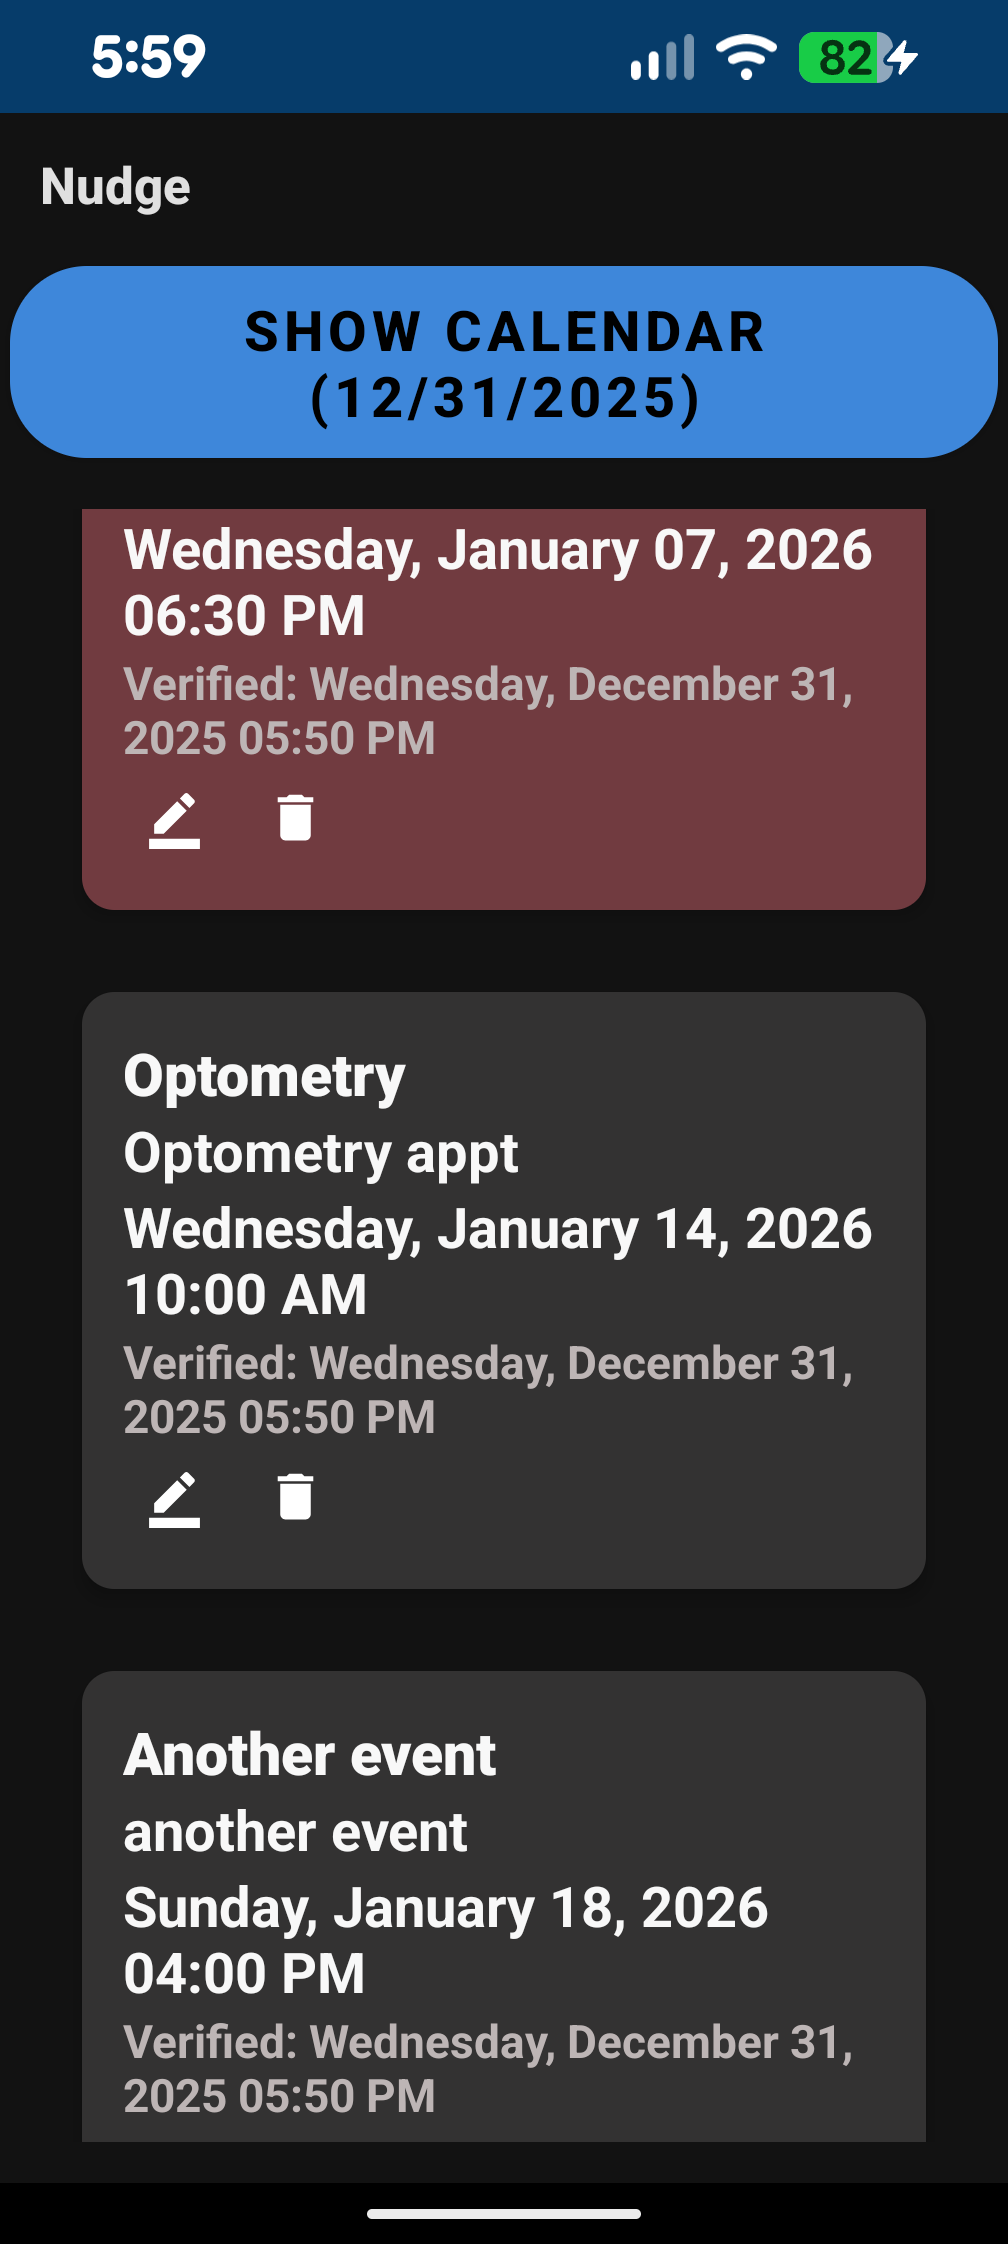
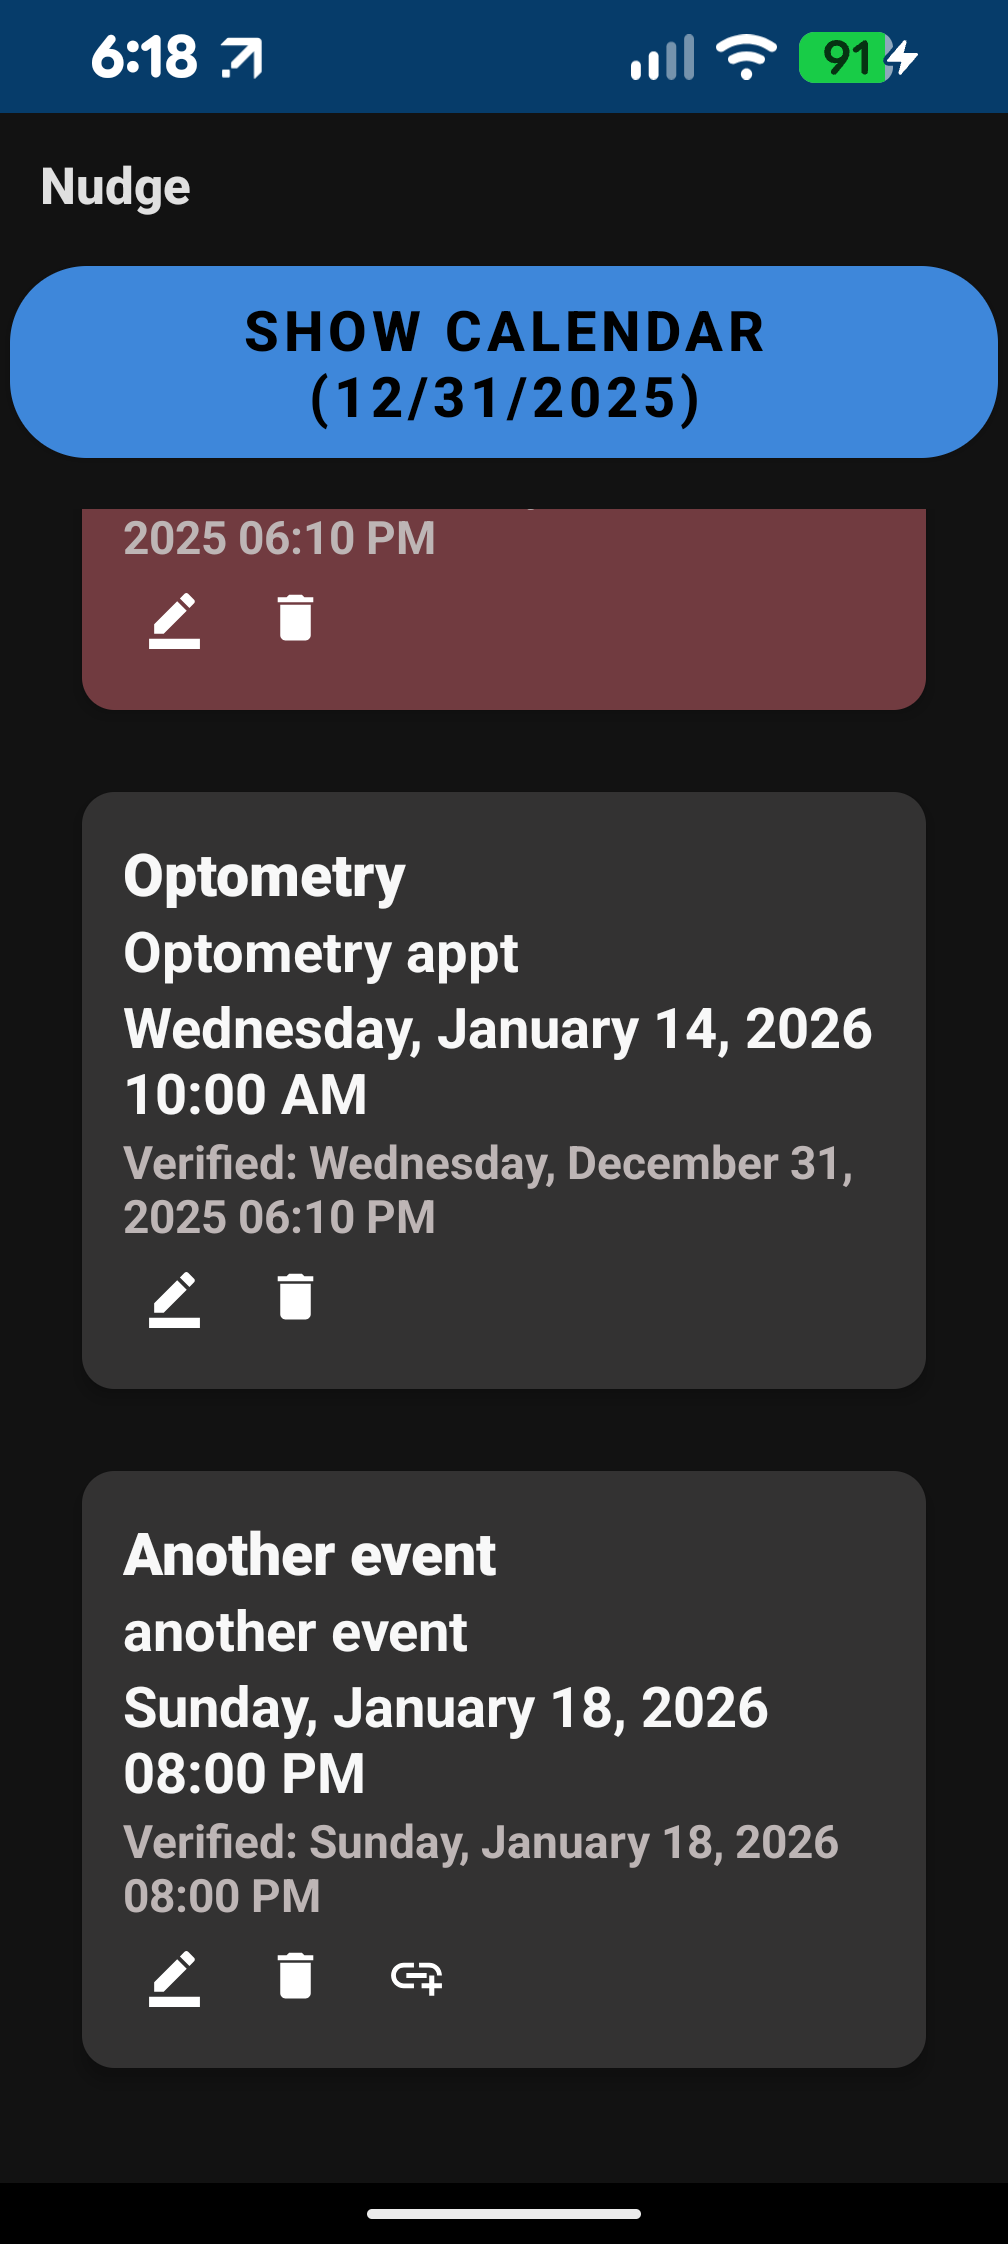
client: support links in android

diff --git a/client/android/app/src/main/java/com/hyunwookshin/nudge/ReminderAdapter.kt b/client/android/app/src/main/java/com/hyunwookshin/nudge/ReminderAdapter.kt
@@ -1,5 +1,7 @@
 package com.hyunwookshin.nudge
 
+import android.content.Intent
+import android.net.Uri
 import android.view.LayoutInflater
 import android.view.View
 import android.view.ViewGroup
@@ -62,6 +64,7 @@ class ReminderAdapter : RecyclerView.Adapter<ReminderAdapter.ReminderViewHolder>
         private val id: TextView = itemView.findViewById(R.id.id)
         private val editButton: ImageButton = itemView.findViewById(R.id.editButton)
         private val deleteButton: ImageButton = itemView.findViewById(R.id.deleteButton)
+        private val linkButton: ImageButton = itemView.findViewById(R.id.linkButton)
 
         fun bind(reminder: Reminder) {
             title.text = reminder.Title
@@ -83,6 +86,17 @@ class ReminderAdapter : RecyclerView.Adapter<ReminderAdapter.ReminderViewHolder>
             }
             deleteButton.setOnClickListener {
                 reminderCallback?.onDeleteReminder(reminder)
+            }
+            val link = reminder.Link
+            if (!link.isNullOrBlank()) {
+                linkButton.visibility = View.VISIBLE
+                linkButton.setOnClickListener {
+                    val intent = Intent(Intent.ACTION_VIEW, Uri.parse(link))
+                    itemView.context.startActivity(intent)
+                }
+            } else {
+                linkButton.visibility = View.GONE
+                linkButton.setOnClickListener(null)
             }
             cardRoot.background?.mutate()?.setTint(backgroundColor)
         }
